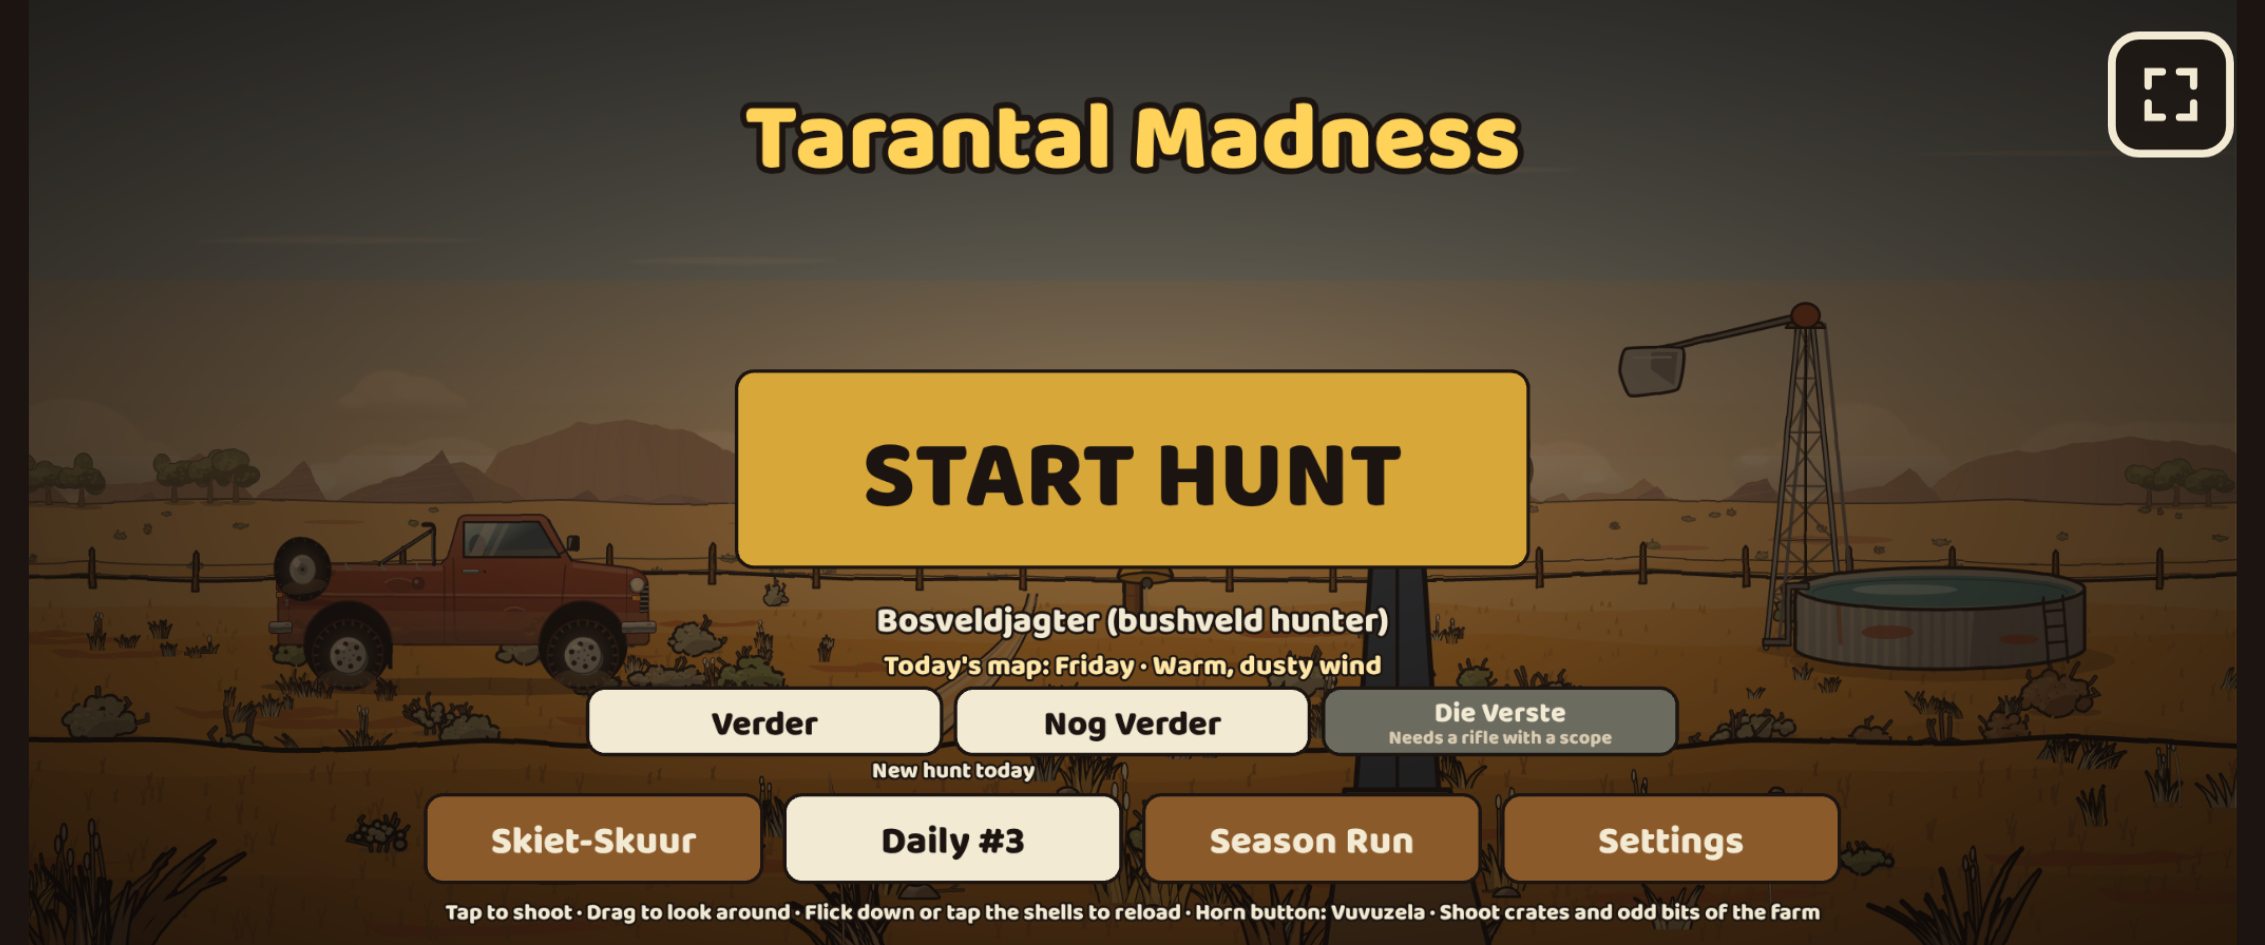
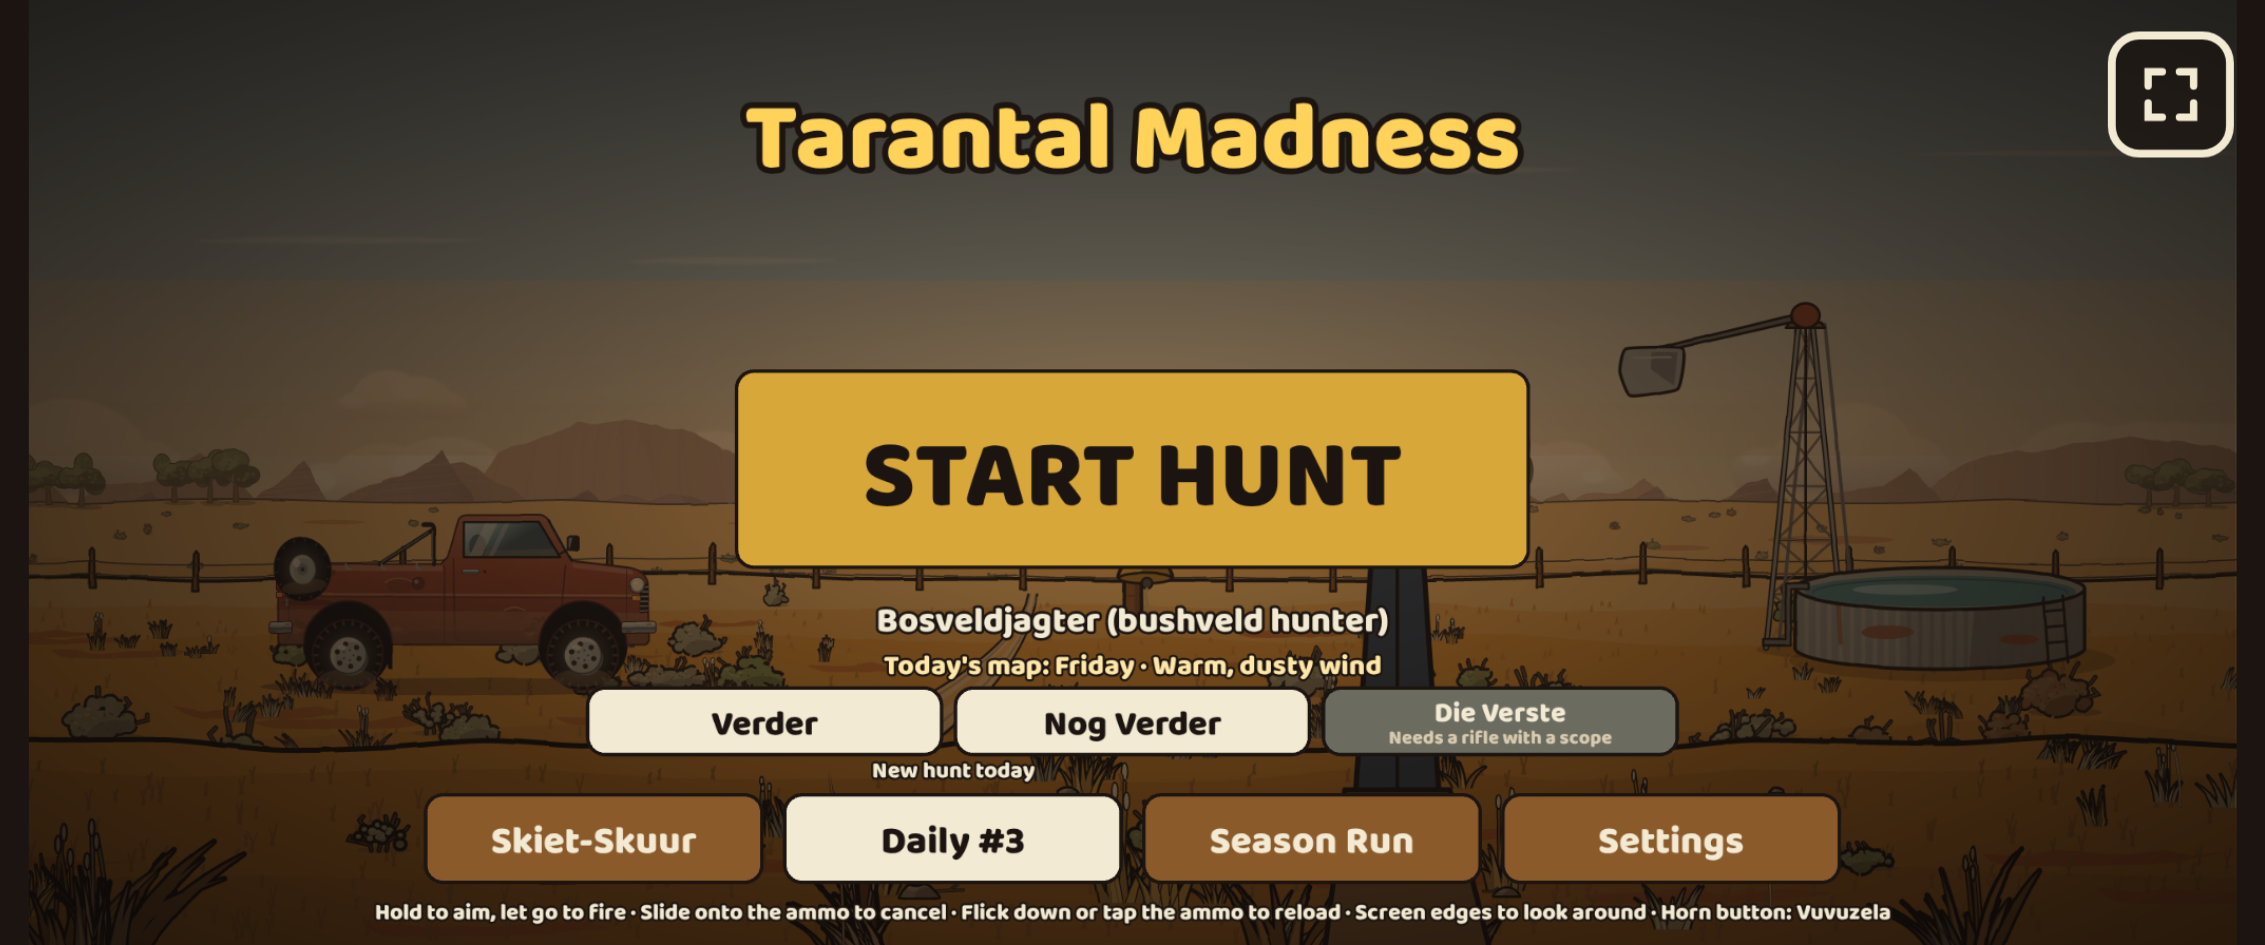
feat(title): rifle hints, hold to aim and release to fire, in en/af/de/nl
When the Classic gun carries a sight, the title shows start.hint_rifle_touch or
start.hint_rifle_mouse: hold to aim and release to fire; slide onto the ammo (touch) or
right-click while aiming (mouse) to cancel; how to reload and look around. Other guns keep the
old hints, so no visual.spec screen changes (its saves carry the Dubbelloop).

Changed region(s): [[0.1545, 0.9513, 0.8344, 0.982]]

diff --git a/src/game/scenes/TitleScene.ts b/src/game/scenes/TitleScene.ts
@@ -321,7 +321,16 @@ export class TitleScene extends Phaser.Scene {
         .text(
           width / 2,
           height - safe.bottom - 40,
-          t(this.ctx.coarsePointer ? 'start.hint_touch' : 'start.hint_mouse'),
+          // v1.3: with a rifle as the Classic gun, how to hold, fire and cancel the sight.
+          t(
+            gunSight !== undefined
+              ? this.ctx.coarsePointer
+                ? 'start.hint_rifle_touch'
+                : 'start.hint_rifle_mouse'
+              : this.ctx.coarsePointer
+                ? 'start.hint_touch'
+                : 'start.hint_mouse',
+          ),
           { ...textStyle(26), stroke: '#1B1410', strokeThickness: 5 },
         )
         .setOrigin(0.5);
